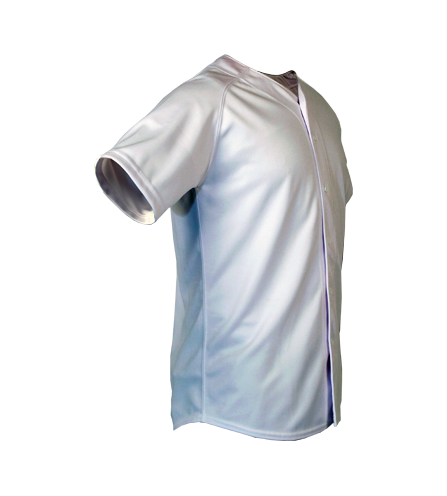
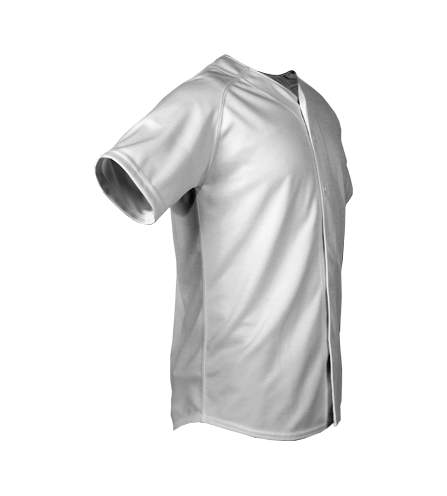
updates

diff --git a/public/uniform-builder/js/uniform-builder.js b/public/uniform-builder/js/uniform-builder.js
@@ -113,10 +113,10 @@
         }
 
 
-        window.two_d.load_base('/images/builder-assets/jersey-front.png', window.two_d.canvas_front, 'jersey_front')
-        window.two_d.load_base('/images/builder-assets/jersey-back.png', window.two_d.canvas_back, 'jersey_back')
-        window.two_d.load_base('/images/builder-assets/jersey-right.png', window.two_d.canvas_right, 'jersey_right')
-        window.two_d.load_base('/images/builder-assets/jersey-left.png', window.two_d.canvas_left, 'jersey_left');
+        // window.two_d.load_base('/images/builder-assets/jersey-front.png', window.two_d.canvas_front, 'jersey_front')
+        // window.two_d.load_base('/images/builder-assets/jersey-back.png', window.two_d.canvas_back, 'jersey_back')
+        // window.two_d.load_base('/images/builder-assets/jersey-right.png', window.two_d.canvas_right, 'jersey_right')
+        // window.two_d.load_base('/images/builder-assets/jersey-left.png', window.two_d.canvas_left, 'jersey_left');
 
 
         $('.change-color').on('click', function(e){
@@ -131,21 +131,7 @@
 
            }
 
-            window.two_d.apply_filters(true);
-
-            var filter = new fabric.Image.filters.Blend({
-
-              mode: 'multiply',
-              color: color,
-              
-            });
-
-            window.two_d.objects['jersey_front'].filters.push(filter);
-            window.two_d.objects['jersey_back'].filters.push(filter);
-            window.two_d.objects['jersey_left'].filters.push(filter);
-            window.two_d.objects['jersey_right'].filters.push(filter);
-
-            window.two_d.apply_filters();
+           window.two_d.load_bases(color);
             
         }); 
 
@@ -223,6 +209,7 @@
 
         /// Camera Views
 
+
             $('a.change-view').on('click', function(e){
 
                 var view = $(this).data('view');
@@ -235,7 +222,6 @@
                 $('#' + view + '_view').parent().fadeIn(); // fade in the parent container not the actual canvas
 
             });
-
 
 
         /// End Camera Views
@@ -262,10 +248,10 @@
             
             /// Canvas Events ///
 
-                
                 mixing_canvas.top_layer.on('after:render', function(options) {
-                
-                   mixing_canvas.mix(view_canvas);
+                   
+                    mixing_canvas.mix(view_canvas);
+                    
 
                 });
 
@@ -273,20 +259,19 @@
                 mixing_canvas.bottom_layer.on('after:render', function(options) {
                 
                     mixing_canvas.mix(view_canvas);
+                    
 
                 });
 
 
                 mixing_canvas.mix = function(canvas) {
 
-          
+
                     if( _.size(mixing_canvas.objects) !== 2 ){
-                        util.p('loading...')
+                        
                         return false;
 
                     }
-
-                    util.p('loaded')
 
                     var a     =  mixing_canvas.top_layer.getContext('2d');
                     var b     =  mixing_canvas.bottom_layer.getContext('2d');
@@ -294,7 +279,7 @@
 
                     a.blendOnto(dest, b, 'multiply'); 
                     
-                    var imgData = dest.getImageData(0,0, 447, 496);
+                    var imgData = dest.getImageData( 0, 0, 447, 496 );
 
                     var c = document.createElement('canvas');
                     c.setAttribute('id', '_temp_canvas');
@@ -302,7 +287,6 @@
                     c.height = 496;
 
                     c.getContext('2d').putImageData(imgData, 0, 0);
-
 
                     fabric.Image.fromURL(c.toDataURL(), function(img) {
 
@@ -313,9 +297,10 @@
                         img.top = 0;
                         canvas.add(img);
                         img.bringToFront();
+                        canvas.renderAll();
+
                         c = null;
                         $('#_temp_canvas').remove();
-                        canvas.renderAll();
 
                     })
 
@@ -329,7 +314,8 @@
 
             /// Base 
 
-            fabric.util.loadImage(base, function (image) {
+
+            fabric.util.loadImage(base.filename, function (image) {
                     
                 materialOption = new fabric.Image(image);
 
@@ -367,43 +353,81 @@
 
                     });
 
+                    
+                    var filter = new fabric.Image.filters.Multiply({
+                      color: base.color,
+                    });
+
+                    materialOption.filters.push(filter);
+                    materialOption.applyFilters(mixing_canvas.bottom_layer.renderAll.bind(mixing_canvas.bottom_layer));
+
                     objects['shape'] = materialOption;
-                    mixing_canvas.bottom_layer.add(materialOption).renderAll(); 
+
+                    mixing_canvas.bottom_layer.add(materialOption); 
+                //mixing_canvas.bottom_layer.renderAll();
                                                 
                 });
-
 
         };
 
 
         /// Initialize ///
 
-            var base    = '/images/builder-assets/jersey-front.png';
-            var pattern = [];
-            var shape   = '/images/builder-assets/jersey-front-shape.png';
+            window.two_d.load_bases = function(color){
 
-            window.two_d.compose_material(base, pattern, shape, window.two_d.canvas_front,'jersey_front');
+                var start = new Date().getTime();
 
-            
-                var base    = '/images/builder-assets/jersey-back.png';
-                var shape   = '/images/builder-assets/jersey-back-shape.png';
+                var base            = {};
+                    base.filename   = '';
+                    base.color      = '';
+
+                var pattern         = [];
+                var shape           = '';
+
+
+                /// FRONT
+                base.filename       = '/images/builder-assets/jersey-front.png';
+                base.color          = color;
+                pattern             = [];
+                shape               = '/images/builder-assets/jersey-front-shape.png';
+
+                window.two_d.compose_material(base, pattern, shape, window.two_d.canvas_front,'jersey_front');
+                
+
+                /// BACK
+                base.filename       = '/images/builder-assets/jersey-back.png';
+                base.color          = color;
+                pattern             = [];
+                shape               = '/images/builder-assets/jersey-back-shape.png';
 
                 window.two_d.compose_material(base, pattern, shape, window.two_d.canvas_back,'jersey_back');
 
-            
-            
-                var base    = '/images/builder-assets/jersey-left.png';
-                var shape   = '/images/builder-assets/jersey-left-shape.png';
+
+                /// LEFT
+                base.filename       = '/images/builder-assets/jersey-left.png';
+                base.color          = color;
+                shape               = '/images/builder-assets/jersey-left-shape.png';
 
                 window.two_d.compose_material(base, pattern, shape, window.two_d.canvas_left,'jersey_left');
 
 
-            
-                var base    = '/images/builder-assets/jersey-right.png';
-                var shape   = '/images/builder-assets/jersey-right-shape.png';
+                /// RIGHT
+                base.filename       = '/images/builder-assets/jersey-right.png';
+                base.color          = color;
+                pattern             = [];
+                shape               = '/images/builder-assets/jersey-right-shape.png';
 
                 window.two_d.compose_material(base, pattern, shape, window.two_d.canvas_right,'jersey_right');
 
+
+                var end = new Date().getTime();
+                var time = end - start;
+                console.log('time',time);
+
+
+            }
+
+            window.two_d.load_bases('#8c2332');
 
         /// End Initialize ///
 
